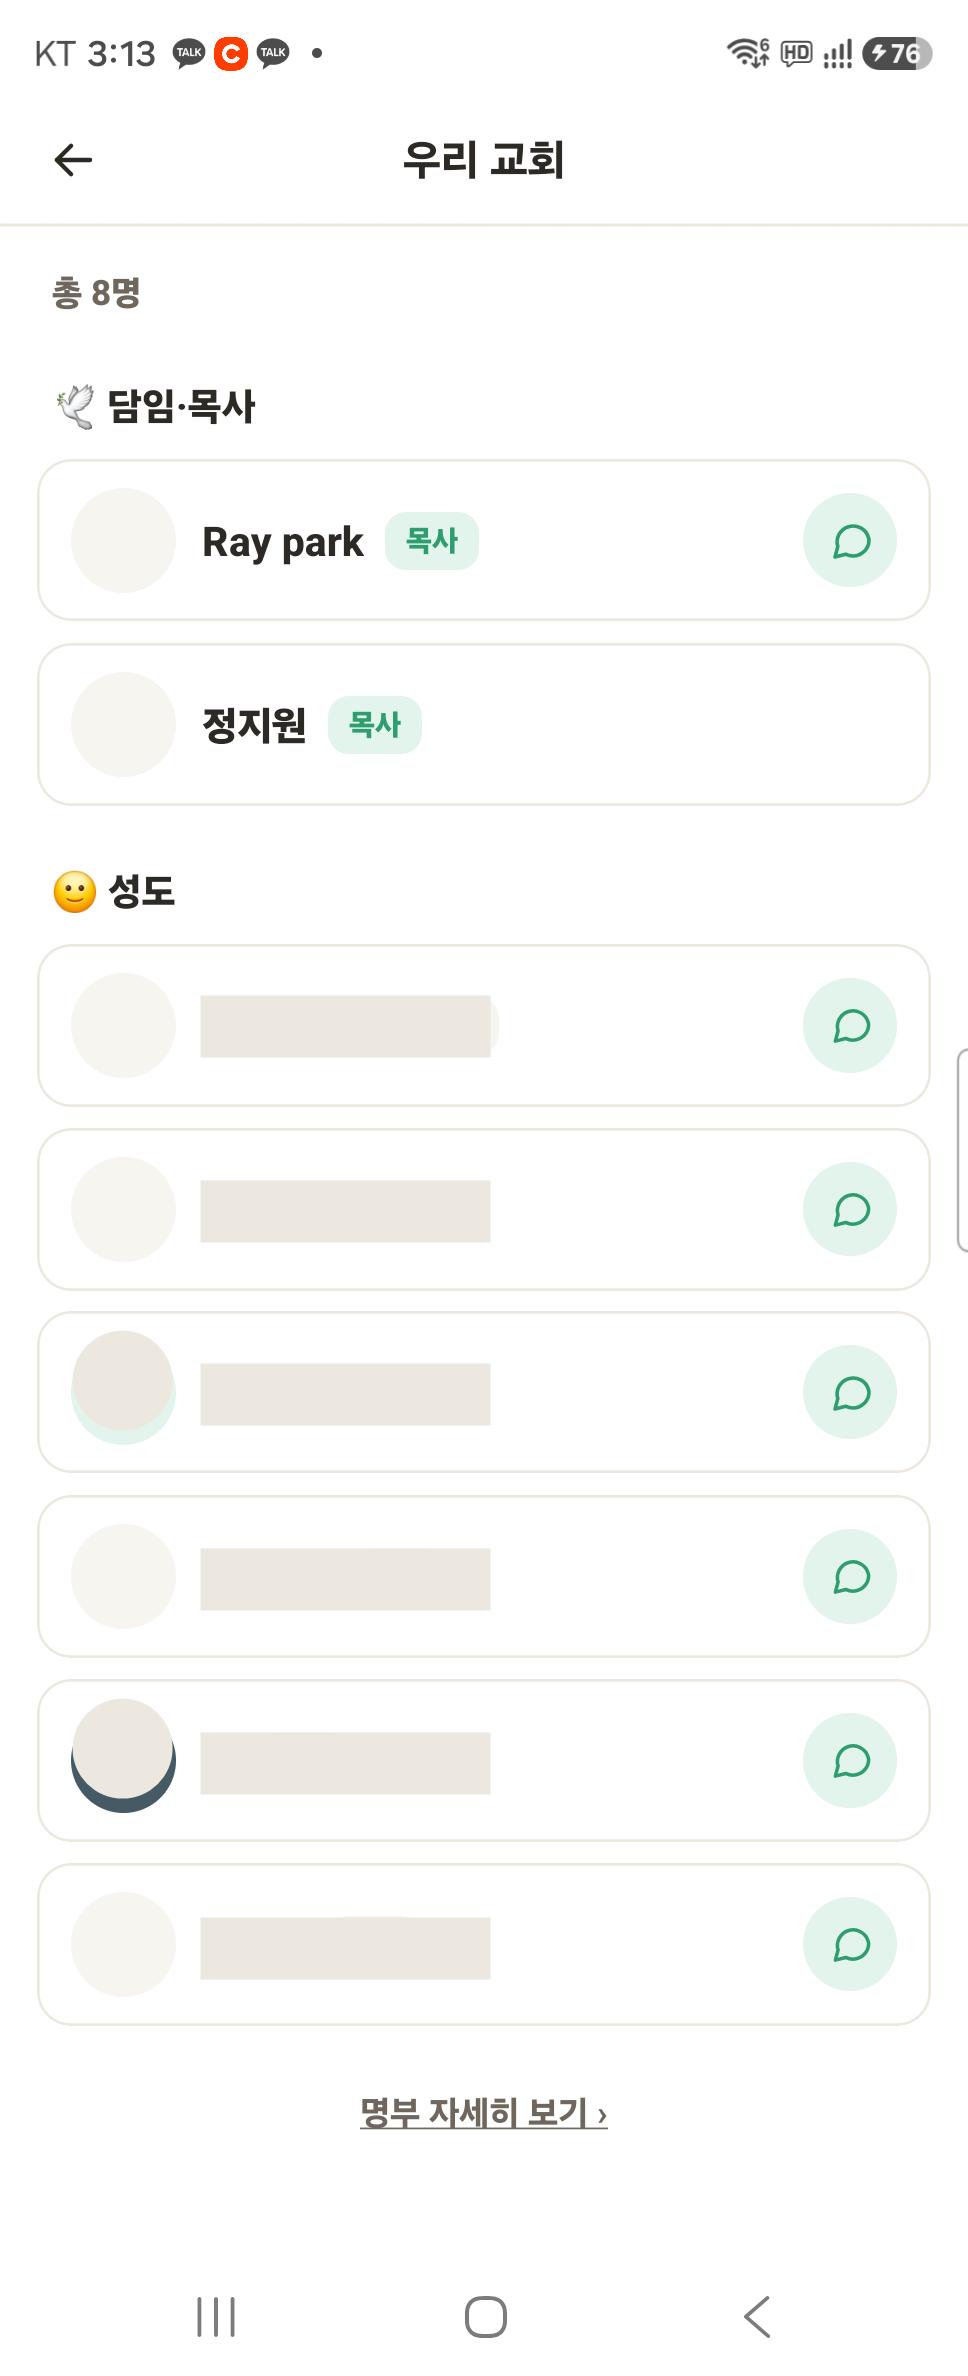
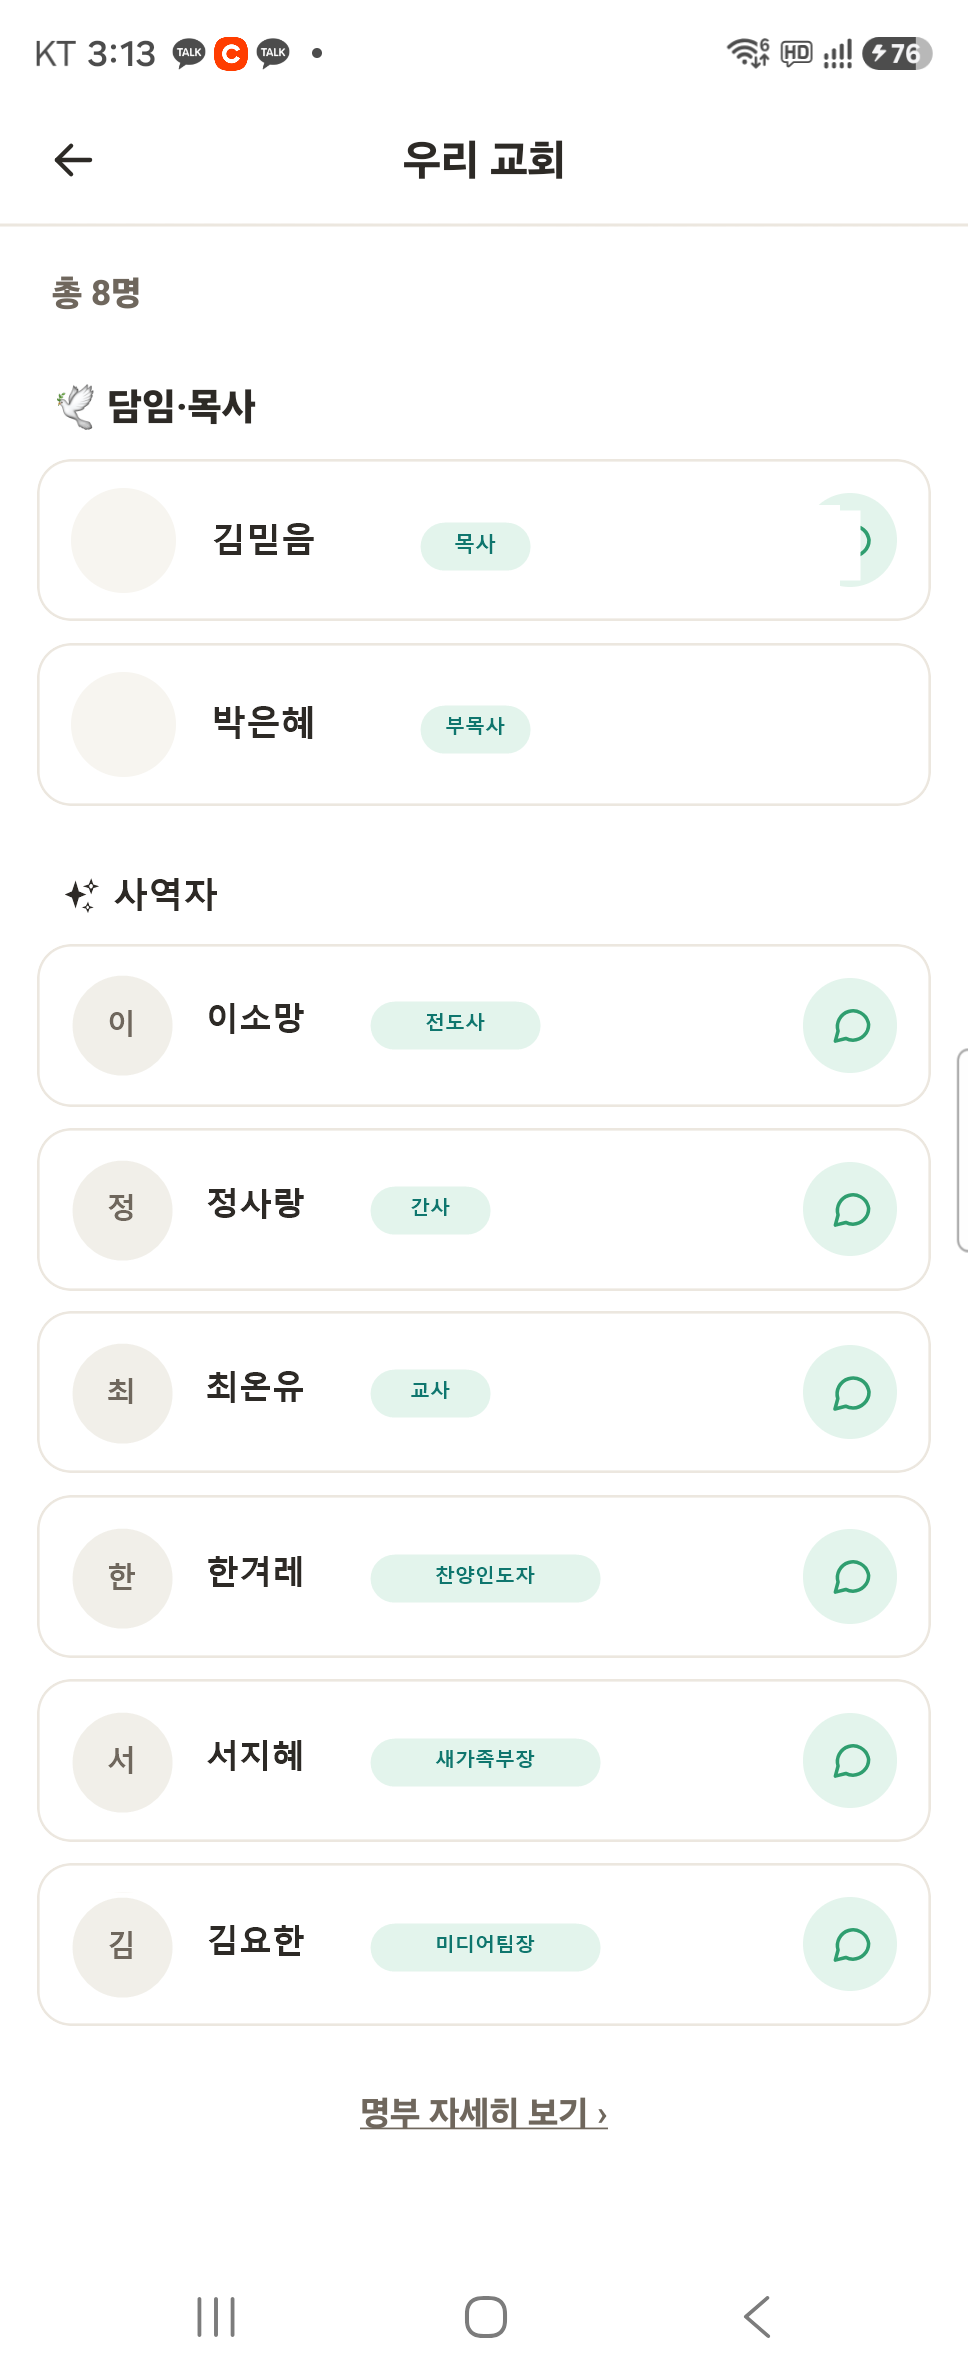
fix(tutorial): 함께 암송 프리미엄 표기 + 교회 스샷 데모 이름·직분 재작업 + 명부 등록 카드 연출

diff --git a/app/tutorial/page.tsx b/app/tutorial/page.tsx
@@ -7,12 +7,12 @@ export const metadata: Metadata = {
 };
 
 /** 기능 카드 목록 — 준비되는 대로 href 를 연결한다 */
-const FEATURES: { emoji: string; title: string; desc: string; href?: string; tag?: string; pricing?: 'free' | 'mixed'; priceNote?: string }[] = [
+const FEATURES: { emoji: string; title: string; desc: string; href?: string; tag?: string; pricing?: 'free' | 'mixed' | 'premium'; priceNote?: string }[] = [
     { emoji: '✍', title: '성경 필사', pricing: 'mixed', priceNote: '무료: 열람·진행률 · 프리미엄: 따라쓰기·음성', desc: '한 절씩 따라 쓰며 말씀을 마음에 새겨요', href: '/tutorial/scripture' },
     { emoji: '📖', title: '성경 읽기', pricing: 'free', priceNote: '개역한글 전부 무료 · 일부 번역본만 소장권', desc: '개역한글 무료, 구절 하이라이트·카드 공유', href: '/tutorial/bible' },
     { emoji: '🌅', title: '매일 큐티', pricing: 'mixed', priceNote: '무료: 오늘의 큐티 확인 · 프리미엄: 묵상 진행', desc: '365일 새 묵상과 기도, 한 해의 동행', href: '/tutorial/qt' },
     { emoji: '📚', title: '성경 통독 플랜', pricing: 'free', desc: '자유·1년 1독·연대기·맥체인 4가지 플랜', href: '/tutorial/plan' },
-    { emoji: '🤝', title: '함께 암송', pricing: 'free', desc: '전원이 완료해야 내일이 열리는 암송', href: '/tutorial/memorization' },
+    { emoji: '🤝', title: '함께 암송', pricing: 'premium', priceNote: '녹음 보관·상호 청취가 포함된 프리미엄 전용', desc: '전원이 완료해야 내일이 열리는 암송', href: '/tutorial/memorization' },
     { emoji: '📝', title: '말씀 노트', pricing: 'free', desc: '은혜받은 말씀과 적용을 기록해요', href: '/tutorial/note' },
     { emoji: '🙏', title: '기도', pricing: 'free', desc: '기도제목 나눔과 중보기도', href: '/tutorial/prayer' },
     { emoji: '✝', title: '크라이스트 테스트', pricing: 'mixed', priceNote: '무료: 테스트·결과 · 프리미엄: 심층 결과지', desc: '나는 성경 속 어떤 인물일까?', href: '/tutorial/test' },
@@ -43,6 +43,7 @@ const S: Record<string, React.CSSProperties> = {
     priceFree: { fontSize: 11.5, fontWeight: 800, color: '#0f766e', background: '#e3f4ec', borderRadius: 999, padding: '2px 10px' },
     priceMixed: { fontSize: 11.5, fontWeight: 800, color: '#a8730a', background: '#fdf0d8', borderRadius: 999, padding: '2px 10px' },
     priceNote: { fontSize: 11.5, color: '#94a3b8', lineHeight: 1.5 },
+    pricePremium: { fontSize: 11.5, fontWeight: 800, color: '#7c3aed', background: '#f3e8ff', borderRadius: 999, padding: '2px 10px' },
 };
 
 export default function TutorialHub() {
@@ -57,7 +58,8 @@ export default function TutorialHub() {
                 </p>
                 <div style={S.legend}>
                     <span style={S.badgeFree}>무료 — 전부 무료</span>
-                    <span style={S.badgePremium}>무료+프리미엄 — 핵심은 무료, 일부만 프리미엄 (월 $1.49)</span>
+                    <span style={S.badgePremium}>무료+프리미엄 — 핵심은 무료, 일부만 프리미엄</span>
+                    <span style={{ background: '#f3e8ff', color: '#7c3aed', borderRadius: 999, padding: '5px 14px', fontSize: 13, fontWeight: 800 }}>프리미엄 — 구독 전용 (월 $1.49)</span>
                 </div>
                 <div style={S.grid}>
                     {FEATURES.map((f) => (
@@ -67,7 +69,7 @@ export default function TutorialHub() {
                                 <p style={S.cardTitle}>{f.title} <span style={S.go}>보기 →</span></p>
                                 <p style={S.cardDesc}>{f.desc}</p>
                                 <div style={S.priceRow}>
-                                    <span style={f.pricing === 'mixed' ? S.priceMixed : S.priceFree}>{f.pricing === 'mixed' ? '무료+프리미엄' : '무료'}</span>
+                                    <span style={f.pricing === 'premium' ? S.pricePremium : f.pricing === 'mixed' ? S.priceMixed : S.priceFree}>{f.pricing === 'premium' ? '프리미엄' : f.pricing === 'mixed' ? '무료+프리미엄' : '무료'}</span>
                                     {f.priceNote && <span style={S.priceNote}>{f.priceNote}</span>}
                                 </div>
                             </Link>

diff --git a/app/tutorial/memorization/page.tsx b/app/tutorial/memorization/page.tsx
@@ -51,7 +51,7 @@ export default function MemorizationTutorial() {
                         <li><b>지난 2주 본문을 매일 함께 복습</b>(누적)해서, 외운 말씀이 잊히지 않아요.</li>
                         <li>완료 인증은 <b>녹음 제출</b> — 멤버끼리 서로의 녹음을 들으며 격려할 수 있어요.</li>
                         <li>이틀 넘게 못 하는 멤버가 있어도, 완료한 사람이 있으면 <b>자동으로 넘어가는 배려 장치</b>가 있어요. 아직 안 한 멤버는 <b>콕 찌르기</b>(하루 1번)로 살짝 깨워줄 수도 있고요.</li>
-                        <li>테마를 완주하면 <b>같은 방에서 새 테마</b>로 계속할 수 있고, 함께 암송의 모든 기능은 <b>전부 무료</b>예요.</li>
+                        <li>테마를 완주하면 <b>같은 방에서 새 테마</b>로 계속할 수 있어요.</li>
                     </ul>
                 </div>
 
@@ -67,7 +67,7 @@ export default function MemorizationTutorial() {
                     </tbody>
                 </table>
                 <p style={{ ...S.p, fontSize: 13.5, color: '#94a3b8', marginTop: 8 }}>
-                    · 어느 방식이든 함께 암송은 <span style={S.badgeFree}>전부 무료</span> 입니다.
+                    · 함께 암송은 매일의 녹음을 안전하게 보관·재생하는 <span style={S.badgePremium}>프리미엄</span> 전용 기능입니다 (월 $1.49 — 모든 프리미엄 기능 포함).
                 </p>
 
                 <h2 style={S.h2}>사용법</h2>
